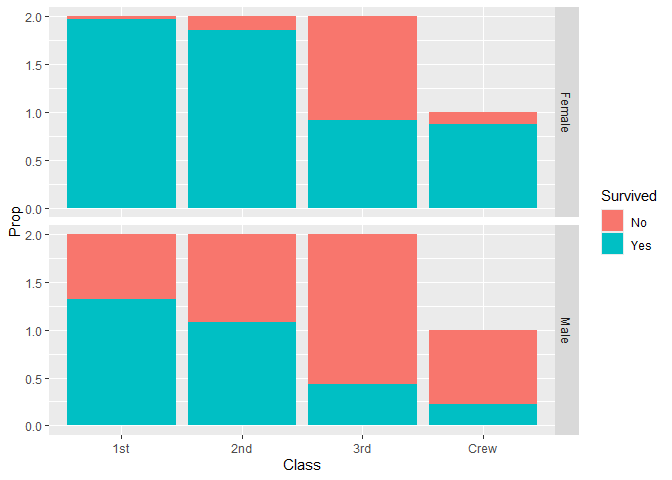
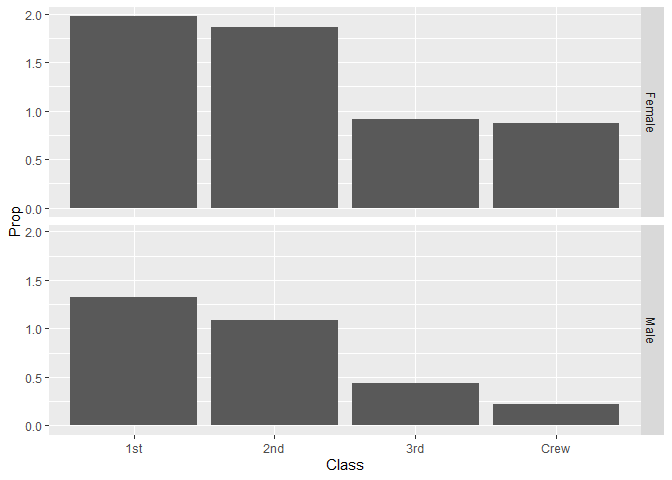
challenge 1 resubmission

diff --git a/challenges/c01-titanic-assignment.md b/challenges/c01-titanic-assignment.md
@@ -121,23 +121,16 @@ df_titanic <- as_tibble(Titanic)
 ### **q1** Perform a glimpse of `df_titanic`. What variables are in this dataset?
 
 ``` r
-df_titanic
+glimpse(df_titanic)
 ```
 
-    ## # A tibble: 32 × 5
-    ##    Class Sex    Age   Survived     n
-    ##    <chr> <chr>  <chr> <chr>    <dbl>
-    ##  1 1st   Male   Child No           0
-    ##  2 2nd   Male   Child No           0
-    ##  3 3rd   Male   Child No          35
-    ##  4 Crew  Male   Child No           0
-    ##  5 1st   Female Child No           0
-    ##  6 2nd   Female Child No           0
-    ##  7 3rd   Female Child No          17
-    ##  8 Crew  Female Child No           0
-    ##  9 1st   Male   Adult No         118
-    ## 10 2nd   Male   Adult No         154
-    ## # ℹ 22 more rows
+    ## Rows: 32
+    ## Columns: 5
+    ## $ Class    <chr> "1st", "2nd", "3rd", "Crew", "1st", "2nd", "3rd", "Crew", "1s…
+    ## $ Sex      <chr> "Male", "Male", "Male", "Male", "Female", "Female", "Female",…
+    ## $ Age      <chr> "Child", "Child", "Child", "Child", "Child", "Child", "Child"…
+    ## $ Survived <chr> "No", "No", "No", "No", "No", "No", "No", "No", "No", "No", "…
+    ## $ n        <dbl> 0, 0, 35, 0, 0, 0, 17, 0, 118, 154, 387, 670, 4, 13, 89, 3, 5…
 
 **Observations**:
 
@@ -167,11 +160,8 @@ df_titanic %>% summarize(total = sum(n))
   - The Wikipedia page says there were 7 more people than what the
     dataset says
 - If yes, what might account for those differences?
-  - They probably pulled their numbers from different sources
-  - In the early 1900s, certain people may have not been properly
-    documented, but were still captured in some sources. Maybe Wikipedia
-    looked at a more anecdotal source while the dataset is looking at
-    more “official” sources.
+  - Maybe some people who were supposed to board or bought tickets
+    weren’t on the ship when the sank.
 
 ### **q3** Create a plot showing the count of persons who *did* survive, along with aesthetics for `Class` and `Sex`. Document your observations below.
 
@@ -179,7 +169,8 @@ df_titanic %>% summarize(total = sum(n))
 
 ``` r
 df_titanic %>% 
-  ggplot(aes(x = Class, y = n, fill = Survived)) +
+  filter(Survived == "Yes") %>% 
+  ggplot(aes(x = Class, y = n)) +
   geom_col() +
   facet_grid(Sex ~ .)
 ```
@@ -188,10 +179,8 @@ df_titanic %>%
 
 **Observations**:
 
-- There were a lot more men onboard then women
-- Larger proportions of the women survived in each class
-- Larger proportions of higher class passengers survived, regardless of
-  gender
+- More women than men survived in first and second class
+- More men than women survived in the crew
 
 # Deeper Look
 
@@ -239,19 +228,21 @@ df_prop
 
 ``` r
 df_prop %>% 
-  ggplot(aes(x = Class, y = Prop, fill = Survived)) +
+  filter(Survived == "Yes") %>% 
+  ggplot(aes(x = Class, y = Prop)) +
   geom_col() +
   facet_grid(Sex ~ .)
 ```
 
-    ## Warning: Removed 4 rows containing missing values or values outside the scale range
+    ## Warning: Removed 2 rows containing missing values or values outside the scale range
     ## (`geom_col()`).
 
 ![](c01-titanic-assignment_files/figure-gfm/q4-task-1.png)<!-- -->
 
 **Observations**:
 
-- Write your observations here.
+- Women always have a higher proportion of survivors than men when
+  looking just at proportions.
 - Is there anything *fishy* going on in your plot?
   - How can prop be higher than 1?
 
